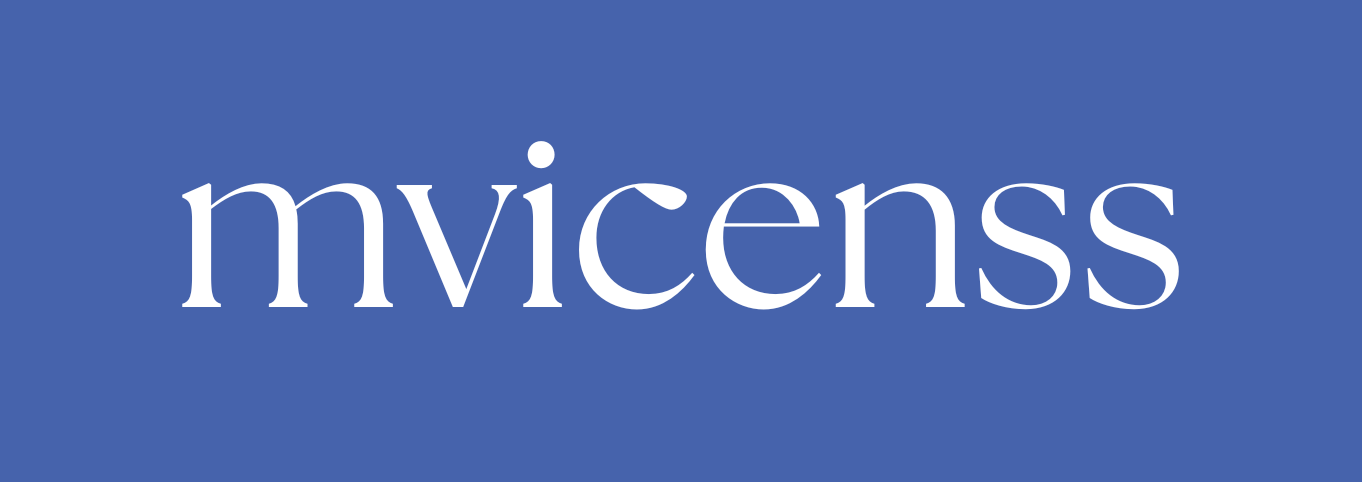
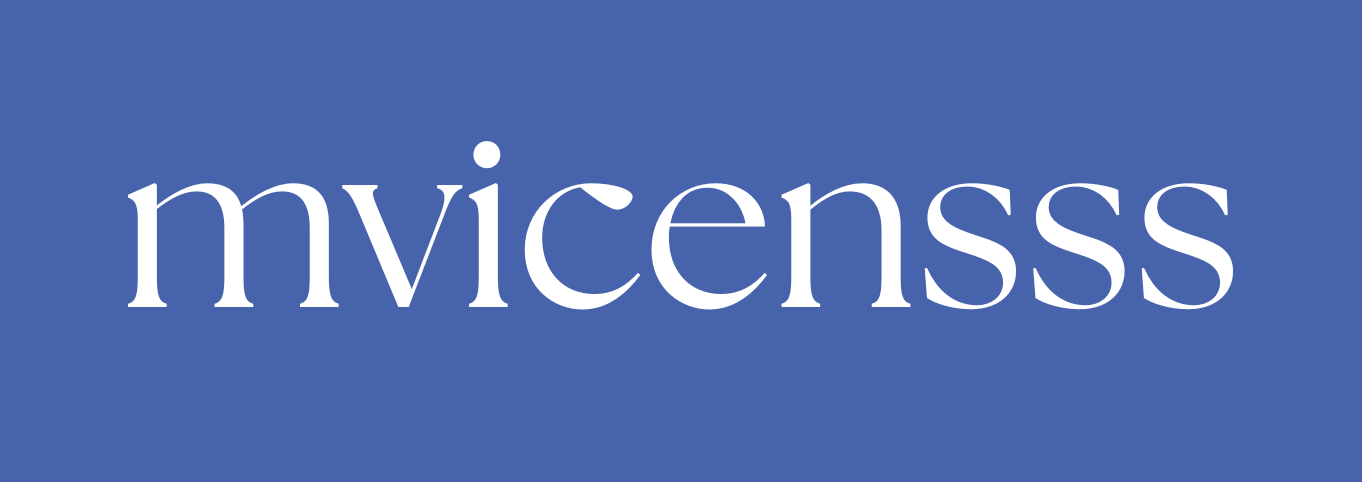
Change og.png + Main page name update

Changed region(s): [[0.0925, 0.3734, 0.9251, 0.6535], [0.3392, 0.2801, 0.4317, 0.3423], [0.8943, 0.4046, 0.9251, 0.4357]]

diff --git a/app/page.tsx b/app/page.tsx
@@ -29,7 +29,7 @@ export default function Home() {
         quantity={100}
       />
       <h1 className="py-3.5 px-0.5 z-10 text-4xl text-transparent duration-1000 bg-white cursor-default text-edge-outline animate-title font-display sm:text-6xl md:text-9xl whitespace-nowrap bg-clip-text ">
-        mvicenss
+        mvicensss
       </h1>
 
       <div className="hidden w-screen h-px animate-glow md:block animate-fade-right bg-gradient-to-r from-zinc-300/0 via-zinc-300/50 to-zinc-300/0" />
